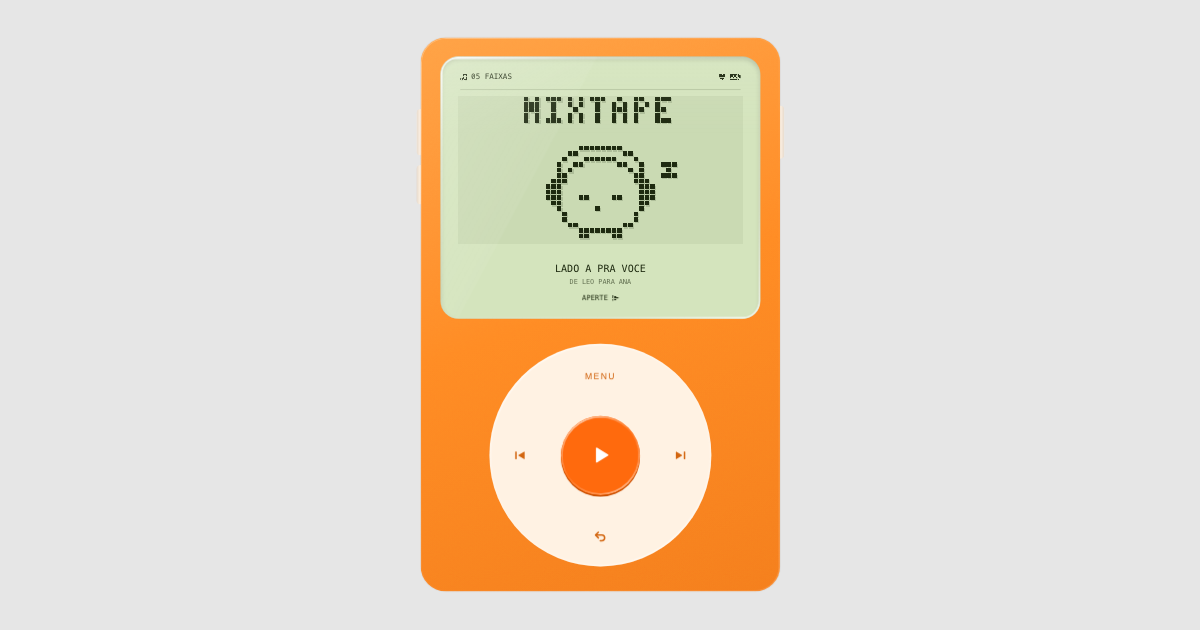
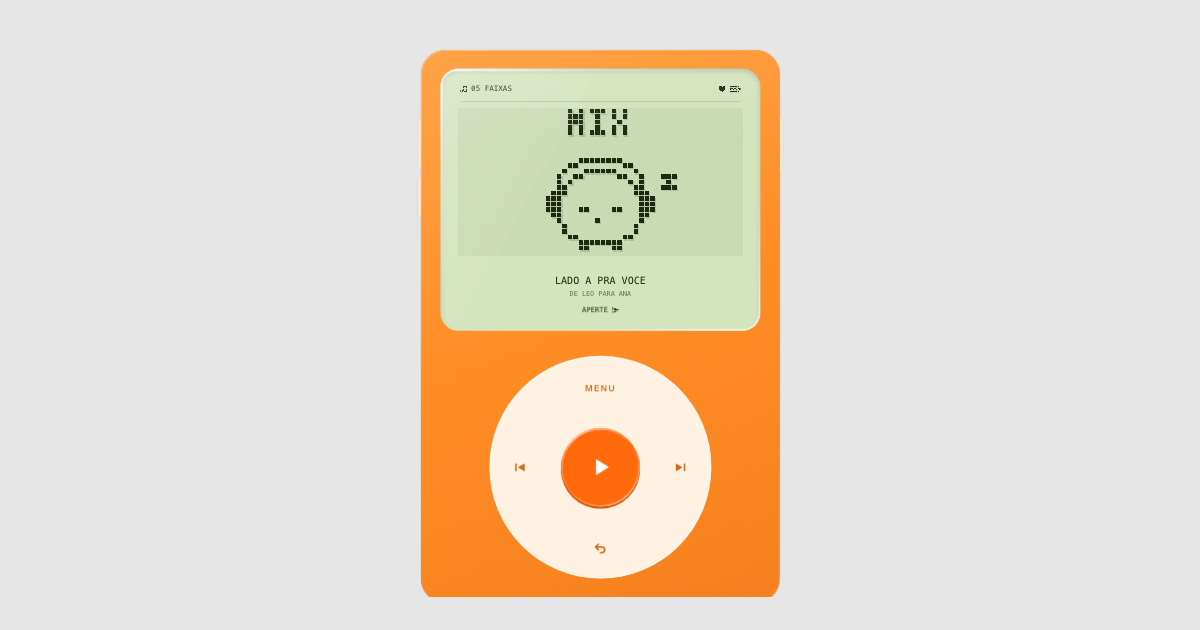
"Mixtape" vira "mix" nas telas e botões de volume iguais
Troca mixtape/sua mixtape por mix/seu mix (e as concordâncias:
"Tá gravado", "MIX GRAVADO", "Novo mix"), inclusive o logo em pixel
do visor e a imagem de prévia. Botões de volume com a mesma altura.

diff --git a/src/pocket/screens/Create.tsx b/src/pocket/screens/Create.tsx
@@ -47,7 +47,7 @@ export function CreateWizard() {
   const finishId = finish.id;
 
   useEffect(() => {
-    document.title = 'Nova mixtape · Y2Player';
+    document.title = 'Novo mix · Y2Player';
   }, []);
   useEffect(() => setOverride(null), [step]);
   useEffect(() => {
@@ -121,7 +121,7 @@ export function CreateWizard() {
       v: 1,
       mood,
       finish: finishId,
-      title: title.trim() || 'Uma mixtape pra você',
+      title: title.trim() || 'Um mix pra você',
       from: from.trim(),
       to: to.trim(),
       note: note.trim(),
@@ -159,7 +159,7 @@ export function CreateWizard() {
         mood={mood}
         tick={tick}
         playing={previewPlaying}
-        track={firstTrack ?? { id: '', title: title || 'Sua mixtape', author: 'Faixa 01' }}
+        track={firstTrack ?? { id: '', title: title || 'Seu mix', author: 'Faixa 01' }}
         index={0}
         total={Math.max(okCount, 1)}
         time={fakeT}
@@ -298,7 +298,7 @@ export function CreateWizard() {
             )}
             {step === 2 && !link && (
               <button className="pp-btn is-signal flex-1" onClick={generate}>
-                Gravar mixtape
+                Gravar mix
               </button>
             )}
             {step === 2 && link && (
@@ -531,7 +531,7 @@ function StepNote(p: {
       <div className="mt-5 flex flex-col gap-4">
         <label className="block">
           <div className="mb-1.5 flex justify-between text-[14px] font-medium">
-            Nome da mixtape <Counter n={p.title.length} max={LIMITS.title} />
+            Nome do mix <Counter n={p.title.length} max={LIMITS.title} />
           </div>
           <input
             className="pp-field"
@@ -572,7 +572,7 @@ function StepNote(p: {
           className="pp-fade-in rounded-[18px] p-4" style={{ background: 'var(--paper-2)', boxShadow: 'inset 0 0 0 1px var(--line)' }}>
           <div className="flex items-center gap-2">
             <span className="pp-status-led ok" />
-            <span className="text-[15px] font-medium">Tá gravada. Agora é com você.</span>
+            <span className="text-[15px] font-medium">Tá gravado. Agora é com você.</span>
           </div>
           <div className="mt-3 flex items-center gap-2">
             <div
@@ -586,7 +586,7 @@ function StepNote(p: {
                 className="pp-btn is-ghost !h-11 !w-11 flex-none !p-0"
                 aria-label="Compartilhar"
                 title="Compartilhar"
-                onClick={() => navigator.share({ title: p.title || 'Uma mixtape pra você', url: p.link! }).catch(() => {})}
+                onClick={() => navigator.share({ title: p.title || 'Um mix pra você', url: p.link! }).catch(() => {})}
               >
                 <IconShare />
               </button>

diff --git a/src/pocket/components/Lcd.tsx b/src/pocket/components/Lcd.tsx
@@ -388,7 +388,7 @@ export function ScreenBoot({
 }) {
   const grid = useMemo(() => {
     const g = composeScene({ mood, tick, playing: false, sleep: true, w: 52, h: 27, charX: 16 });
-    stampText(g, 'MIXTAPE', 12, 0);
+    stampText(g, 'MIX', 20, 0);
     return g;
   }, [mood, tick]);
   return (
@@ -420,7 +420,7 @@ export function ScreenBoot({
   );
 }
 
-export function ScreenSaved({ mood, tick, count, label = 'GRAVADA' }: { mood: MoodId; tick: number; count: number; label?: string }) {
+export function ScreenSaved({ mood, tick, count, label = 'GRAVADO' }: { mood: MoodId; tick: number; count: number; label?: string }) {
   return (
     <>
       <StatusBar
@@ -435,7 +435,7 @@ export function ScreenSaved({ mood, tick, count, label = 'GRAVADA' }: { mood: Mo
         <MascotScene mood={mood} tick={tick} playing celebrate w={44} h={22} charX={12} />
       </div>
       <div style={{ textAlign: 'center', marginTop: 'auto' }}>
-        <div className="pp-lcd-title">MIXTAPE {label}</div>
+        <div className="pp-lcd-title">MIX {label}</div>
         <div className="pp-lcd-sub" style={{ marginTop: '1.2cqw' }}>
           {count} FAIXAS · LINK PRONTO
         </div>

diff --git a/src/pocket/components/Hardware.tsx b/src/pocket/components/Hardware.tsx
@@ -390,8 +390,8 @@ export function Device(p: DeviceProps) {
 
   return (
     <div className={`pp-shell ${p.className ?? ''}`} style={{ ...materialVars(p.finish), ...p.style }}>
-      <SideKey side="left" label="Aumentar volume" repeat onPress={() => nudge(VOL_STEP)} style={{ top: '20cqw', height: '13cqw' }} />
-      <SideKey side="left" label="Diminuir volume" repeat onPress={() => nudge(-VOL_STEP)} style={{ top: '35.5cqw', height: '11cqw' }} />
+      <SideKey side="left" label="Aumentar volume" repeat onPress={() => nudge(VOL_STEP)} style={{ top: '20cqw', height: '12cqw' }} />
+      <SideKey side="left" label="Diminuir volume" repeat onPress={() => nudge(-VOL_STEP)} style={{ top: '34.5cqw', height: '12cqw' }} />
       <SideKey side="right" label="Luz do visor" onPress={() => p.onLight?.(!lit.current)} style={{ top: '19cqw', height: '15cqw' }} />
 
       <div className={`pp-device ${p.framed ? 'is-framed' : ''}`}>

diff --git a/src/pocket/screens/Landing.tsx b/src/pocket/screens/Landing.tsx
@@ -71,7 +71,7 @@ export function Landing() {
           <div className="order-2 text-center lg:order-1 lg:text-left">
             <h1 className="text-[34px] font-medium leading-[1.05] tracking-[-0.025em] sm:text-[48px]">Qual a vibe de hoje?</h1>
             <p className="mx-auto mt-5 max-w-[420px] text-[17px] leading-[1.5] lg:mx-0" style={{ color: 'var(--ink-2)' }}>
-              Crie sua mixtape com até 5 músicas, escreva 1 bilhete levemente cafona e escolha 1 bichinho com mais
+              Crie seu mix com até 5 músicas, escreva 1 bilhete levemente cafona e escolha 1 bichinho com mais
               sentimento que você. Depois é só mandar pra quem você quiser.
             </p>
             <div className="mt-8 flex flex-col items-center gap-3 sm:flex-row sm:justify-center lg:justify-start">

diff --git a/index.html b/index.html
@@ -12,7 +12,7 @@
     <meta name="description" content="Abre, aperta o play e deixa o bichinho trabalhar." />
     <meta property="og:type" content="website" />
     <meta property="og:site_name" content="Y2Player" />
-    <meta property="og:title" content="Alguém fez uma mixtape pra você" />
+    <meta property="og:title" content="Alguém fez um mix pra você" />
     <meta property="og:description" content="Abre, aperta o play e deixa o bichinho trabalhar." />
     <!-- URL absoluta: WhatsApp e redes não leem caminho relativo. Trocar se o endereço mudar. -->
     <meta property="og:url" content="https://y2player.github.io/" />
